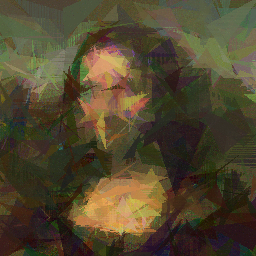
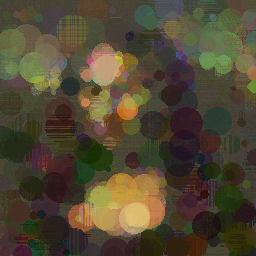
updating

diff --git a/genetic_algorithm.py b/genetic_algorithm.py
@@ -2,16 +2,17 @@ from arg_parse import get_args
 from utils import *
 import time 
 
+#failures: bigger shapes, different fitness function
 args = get_args()
 
-target_image = Image.open("images/mona_lisa.png").convert("RGBA").resize((args.target_height, args.target_width))
+target_image = Image.open("images/university.jpg").convert("RGBA").resize((args.target_height, args.target_width))
 print(target_image.size)
 
 population = create_population(args.population_size, target_height=args.target_height, target_width=args.target_width, size=args.size, type=args.shape)
 frames = []
 
 start = time.time()
-for generation in range(args.generation):
+for generation in range(args.generations):
         
     fitnesses = []
     for ind in population:
@@ -20,8 +21,18 @@ for generation in range(args.generation):
     
     elites_ids = np.argsort(fitnesses)[-args.n_elites:]
     new_population = []
-    tournament_size = max(2, generation // 1000)
-    #tournament_size = 5
+    tournament_size = max(2, int((generation / args.generations) * 10))
+
+    if generation % 100 == 0:
+        best_ind = (population[elites_ids[-1]])
+        frames.append(best_ind)
+        end = time.time()
+        #print(f"Generation: {generation}, avg fitness : {sum(fitnesses) / len(fitnesses)}, time per 100 generations: {(end - start):.2f}")
+        print(f"Generation: {generation}, avg fitness : {sum(fitnesses) / len(fitnesses):.2f}")
+        mean = sum(fitnesses) / len(fitnesses)
+        sd = (sum((ind - mean) ** 2 for ind in fitnesses) / (len(fitnesses) - 1)) ** 0.5
+        #print(f"Generation: {generation}, fitness {mean:.3f}, sd {sd:.4f}")
+        start = time.time()
     
     for i in range(args.population_size):
         
@@ -44,17 +55,8 @@ for generation in range(args.generation):
     
     population = new_population
         
-    best_ind = (population[elites_ids[-1]])
-    
-    if generation % 100 == 0:
-        frames.append(best_ind)
-        end = time.time()
-        #print(f"Generation: {generation}, avg fitness : {sum(fitnesses) / len(fitnesses)}, time per 100 generations: {(end - start):.2f}")
-        #print(f"Generation: {generation}, avg fitness : {sum(fitnesses) / len(fitnesses):.2f}")
-        print(sum(fitnesses)/len(fitnesses))
-        start = time.time()
         
-'''
+
 imageio.mimsave(f"gifs/{args.gif}.gif", frames)
-plt.imsave("images/best_image.png", best_ind) 
-'''
+plt.imsave("images/university.png", best_ind) 
+

diff --git a/utils.py b/utils.py
@@ -23,7 +23,7 @@ def add_rectangle(image, target_height, target_width, size):
     
 
 def add_text(image, target_height, target_width, size):
-    font_size = random.randint(5, size)
+    font_size = random.randint(7, size)
     font = ImageFont.truetype("arial.ttf", font_size)
     text = random.choice(string.ascii_uppercase)
 
@@ -169,10 +169,9 @@ def get_parent(current_population, current_fitness, tournament_size):
 def mutate(ind, size, type):
     rand = random.random()
     
-    if rand < 0.8:
+    if rand < 0.9:
         ind_image = Image.fromarray(ind)
         _ = ImageDraw.Draw(ind_image)
-        
         if type == 0:
             add_rectangle(_, ind.shape[1], ind.shape[0], size)
         if type == 1:
@@ -202,7 +201,7 @@ def crossover(ind1, ind2):
         else:
             return horizontal_swap(ind1, ind2)
     
-    elif rand < 0.65:  
+    elif rand < 0.7:  
         return blending(ind1, ind2)
     else:  
         return pixelwise_change(ind1, ind2)
